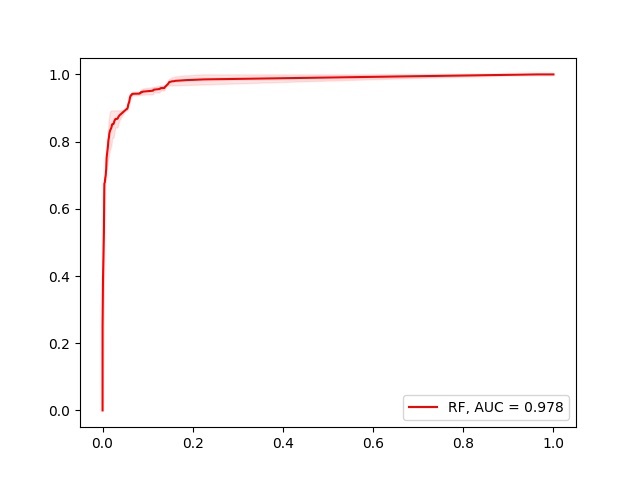
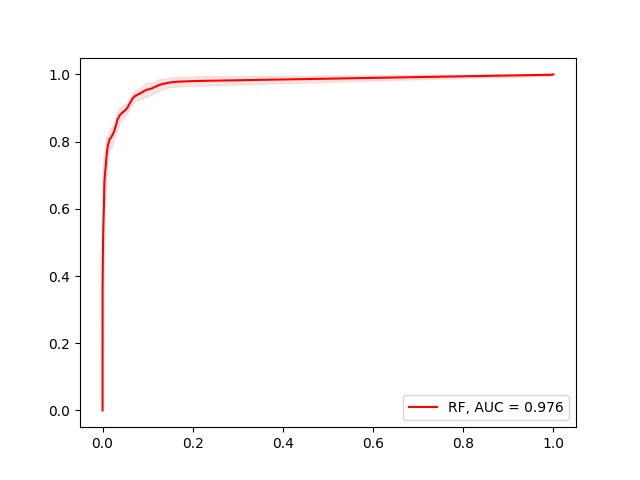
週単位RFの20回実験結果と論文との比較を記録

Changed region(s): [[0.1562, 0.125, 0.8438, 0.375], [0.1562, 0.4375, 0.1875, 0.5938]]

diff --git a/比較結果.md b/比較結果.md
@@ -1,0 +1,73 @@
+# 論文と実行結果の比較
+
+## 現在の状況（2026年10月21日）
+
+著者のコードで、CERT r5.2の週単位データを使ったRandom Forest（RF）の学習・評価を20回実行した。
+ユーザー単位の検出率は論文に近いが、誤検知が多く、F1は低い。**反復回数は揃ったが、論文の数値を再現できたとはまだ言えない。**
+
+実行方法は [実行手順.md](実行手順.md)、処理や指標の説明は [実験内容.md](実験内容.md) を参照。
+
+## 比較対象と条件
+
+原著：D. C. Le, N. Zincir-Heywood and M. I. Heywood, “Analyzing Data Granularity Levels for Insider Threat Detection Using Machine Learning,” IEEE TNSM, 17(1), pp. 30–44, 2020. [DOI](https://doi.org/10.1109/TNSM.2020.2967721)
+
+比較対象は、論文の「現実的な学習条件（realistic condition）・週単位（user-week）・RF」。実験条件はSection IV-B、指標はTable V・VI、AUCはFig. 7を参照した。
+
+| 項目 | 論文 | 今回 |
+|---|---|---|
+| データ／分類器 | CERT r5.2・週単位／RF | 同じ種類 |
+| 学習範囲 | 前半37週間、400ユーザー | 同じ方式 |
+| テスト範囲 | 後半期間、学習に使った既知の不正ユーザーを除外 | 同じ方式 |
+| 前処理／分類 | 平均0・分散1に標準化／正常・不正の2分類 | StandardScaler／2分類 |
+| 反復回数 | 20回 | 20回（run 0〜19） |
+| RFの設定 | パラメータ探索を実施。最終設定の完全一致は未確認 | 配布のparams.pklを使用。木150本、最大深さ5、分割候補は全特徴量、最大葉数100 |
+
+CSVの全140,124行の内訳（正常139,572件、不正シナリオ1〜4が49・245・10・248件）はTable IIと一致した。特徴量の値や、当時のライブラリ環境まで同一とは確認していない。
+
+## 結果
+
+今回の数値は、各回で指標を計算してから20回分を算術平均したもの。全回の予測をまとめて指標を計算した値ではない。AUC以外はすべて％。
+
+| 評価単位 | 指標 | 論文 | 今回 |
+|---|---|---:|---:|
+| 週データ（インスタンス） | 検出率（Recall） | 49.54 | 58.58 |
+| 同上 | 誤検知率（FPR） | 0.00※ | 0.18 |
+| 同上 | 適合率（Precision） | 99.39 | 72.23 |
+| 同上 | F1 | 66.07 | 62.23 |
+| ユーザー | 検出率（Recall） | 73.85 | 74.85 |
+| 同上 | 誤検知率（FPR） | 0.02 | 1.16 |
+| 同上 | 適合率（Precision） | 99.33 | 74.42 |
+| 同上 | F1 | 84.60 | 73.41 |
+
+※論文の0.00％は表示上の丸めであり、誤検知が完全にゼロとは限らない。
+
+| ROC画像のAUC | 論文 | 今回 |
+|---|---:|---:|
+| 週データ単位 | 0.987 | 0.976 |
+| ユーザー単位 | 0.995 | 0.989 |
+
+今回の画像のAUCは、20回のROCを補間して平均した曲線の面積。AUCは検出率とは異なる指標。
+
+## 結果から分かること・まだ分からないこと
+
+- 不正ユーザーの検出率は論文より1.00ポイント高いが、誤検知率も高い。検出率だけで論文を上回ったとは判断できない。
+- ユーザー単位のF1は論文より11.19ポイント低い。出した警報のうち実際に不正だった割合（適合率）も低い。
+- 回ごとのばらつきがある。ユーザー単位のF1は55.78〜85.22％、週データ単位では29.48〜77.88％だった。
+- 20回に揃えても差は残った。原因がパラメータ、特徴量、分割方法、ライブラリ環境のどれにあるかは未特定。
+- 日・セッション・サブセッションの実験は未実施なので、論文の中心であるデータ粒度の比較もこれから。
+
+## 保存場所
+
+以下はrepo内の相対パス。数値結果とバックアップはGit管理対象外。
+
+| 保存先 | 内容 |
+|---|---|
+| `TNSM2020/res/r5.2-week-None-by_user_time-RF.pickle` | 今回の20回分の設定・予測・評価結果 |
+| `TNSM2020/ROC_week_org.jpg` | 今回の週データ単位のROC |
+| `TNSM2020/ROC_week_user.jpg` | 今回のユーザー単位のROC |
+| `TNSM2020/res/backup-2runs/` | 10月7日に実行した2回分の数値結果とROC画像 |
+
+## 次にすること
+
+1. この比較記録と20回分のROC画像をコミットして、今回の区切りを残す。
+2. 追加実験の前に、著者コードのパラメータ・特徴量・分割処理と論文の対応を調べる。差の原因を確認してから、日・セッション単位へ進む。
